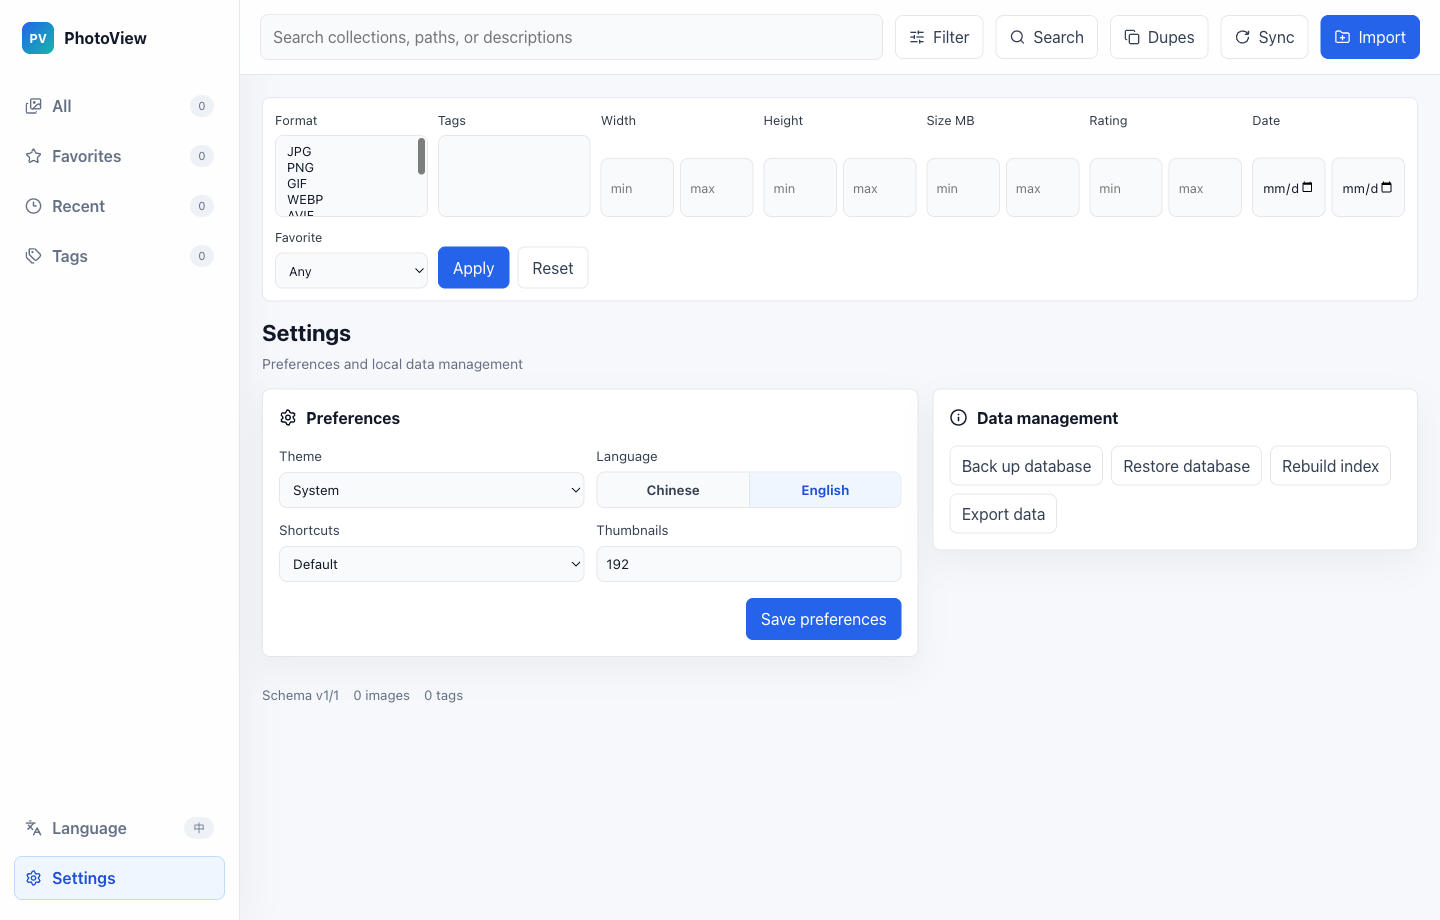
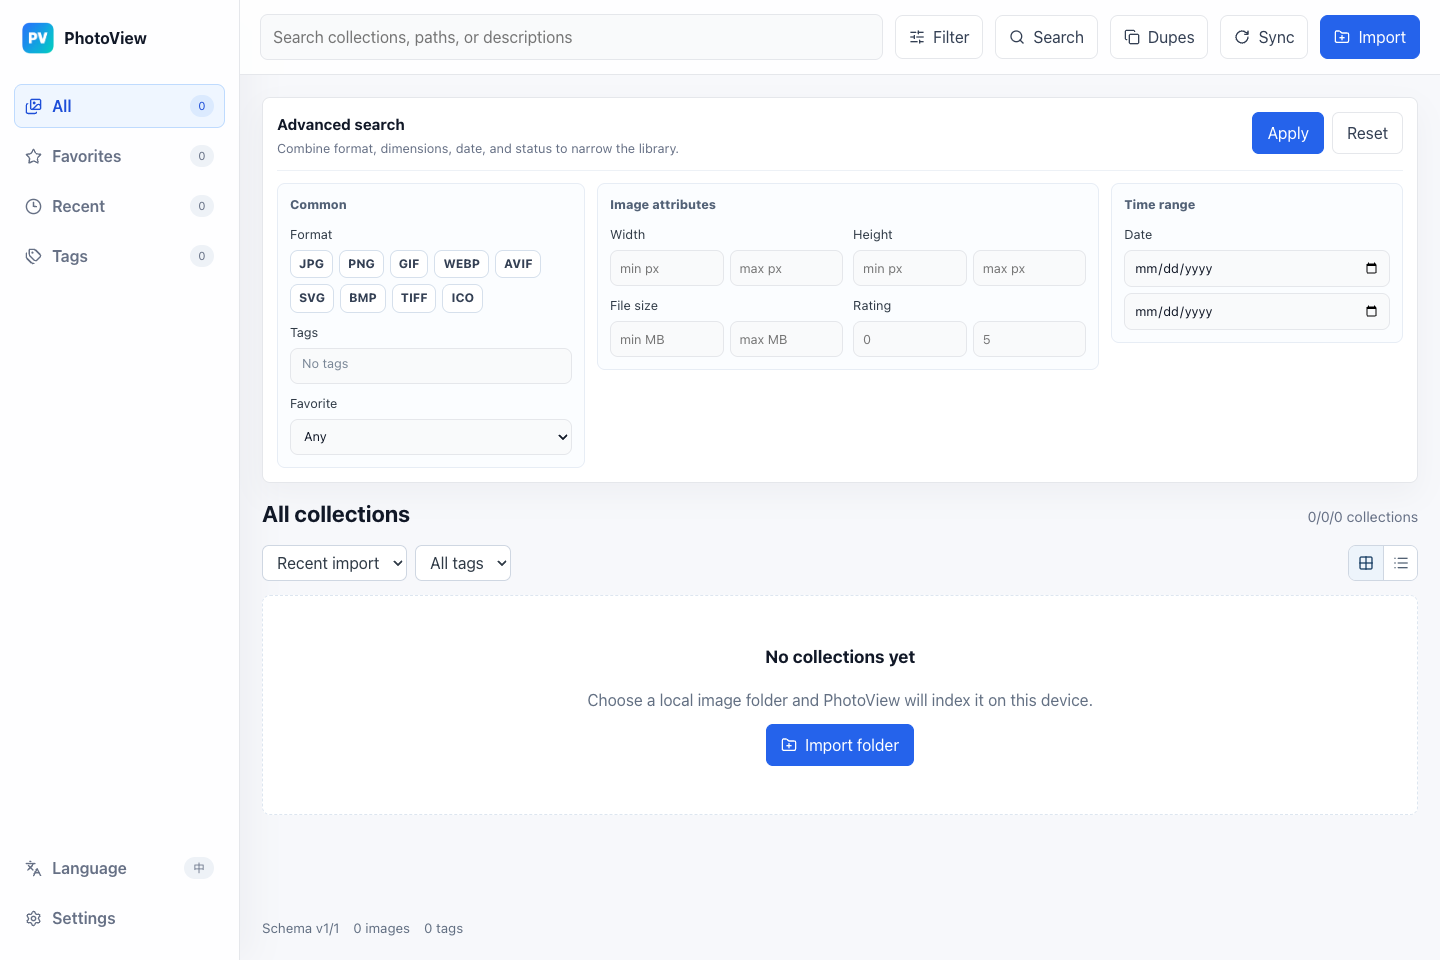
Update landing page screenshots

diff --git a/landing/zh/index.html b/landing/zh/index.html
@@ -898,6 +898,20 @@
             <figure>
               <div class="screenshot-frame">
                 <img
+                  src="../assets/visual-language-zh-filters.png"
+                  alt="PhotoView 高级筛选页面截图"
+                  width="1440"
+                  height="960"
+                />
+              </div>
+              <figcaption class="shot-caption">
+                <strong>高级筛选</strong>
+                <span>格式、尺寸、评分、日期和收藏筛选</span>
+              </figcaption>
+            </figure>
+            <figure>
+              <div class="screenshot-frame">
+                <img
                   src="../assets/visual-photoview-detail-final.png"
                   alt="PhotoView 合集详情页面截图"
                   width="1440"
@@ -907,20 +921,6 @@
               <figcaption class="shot-caption">
                 <strong>图片详情</strong>
                 <span>列表/网格浏览与批量整理</span>
-              </figcaption>
-            </figure>
-            <figure>
-              <div class="screenshot-frame">
-                <img
-                  src="../assets/visual-photoview-settings.png"
-                  alt="PhotoView 设置页面截图"
-                  width="1440"
-                  height="960"
-                />
-              </div>
-              <figcaption class="shot-caption">
-                <strong>本地数据</strong>
-                <span>备份、恢复、重建索引、导出</span>
               </figcaption>
             </figure>
           </div>

diff --git a/landing/en/index.html b/landing/en/index.html
@@ -492,7 +492,7 @@
         color: white;
         background:
           linear-gradient(rgba(15, 23, 42, 0.72), rgba(15, 23, 42, 0.72)),
-          url("../assets/visual-language-en-settings.png") center / cover no-repeat;
+          url("../assets/visual-photoview-detail-final.png") center / cover no-repeat;
         border-radius: 8px;
         box-shadow: var(--shadow);
       }
@@ -877,7 +877,7 @@
                   src="../assets/visual-language-en-filters.png"
                   alt="PhotoView advanced filters screen"
                   width="1440"
-                  height="920"
+                  height="960"
                 />
               </div>
               <figcaption class="shot-caption">
@@ -888,15 +888,15 @@
             <figure>
               <div class="screenshot-frame">
                 <img
-                  src="../assets/visual-language-en-settings.png"
-                  alt="PhotoView settings screen"
+                  src="../assets/visual-photoview-detail-final.png"
+                  alt="PhotoView collection detail screen"
                   width="1440"
-                  height="920"
+                  height="960"
                 />
               </div>
               <figcaption class="shot-caption">
-                <strong>Local data</strong>
-                <span>Backup, restore, rebuild index, export</span>
+                <strong>Image detail</strong>
+                <span>List/grid browsing and batch organization</span>
               </figcaption>
             </figure>
           </div>

diff --git a/landing/README.md b/landing/README.md
@@ -16,13 +16,13 @@ Chinese page:
 
 - `assets/visual-photoview-scanning-cn.png`
 - `assets/visual-photoview-detail-final.png`
-- `assets/visual-photoview-settings.png`
+- `assets/visual-language-zh-filters.png`
 
 English page:
 
 - `assets/visual-photoview-scanning-en.png`
 - `assets/visual-language-en-filters.png`
-- `assets/visual-language-en-settings.png`
+- `assets/visual-photoview-detail-final.png`
 
 The responsive layout is only for viewing this web page on narrow browsers. PhotoView is presented as a desktop app, and the landing page does not use mobile app screenshots.
 